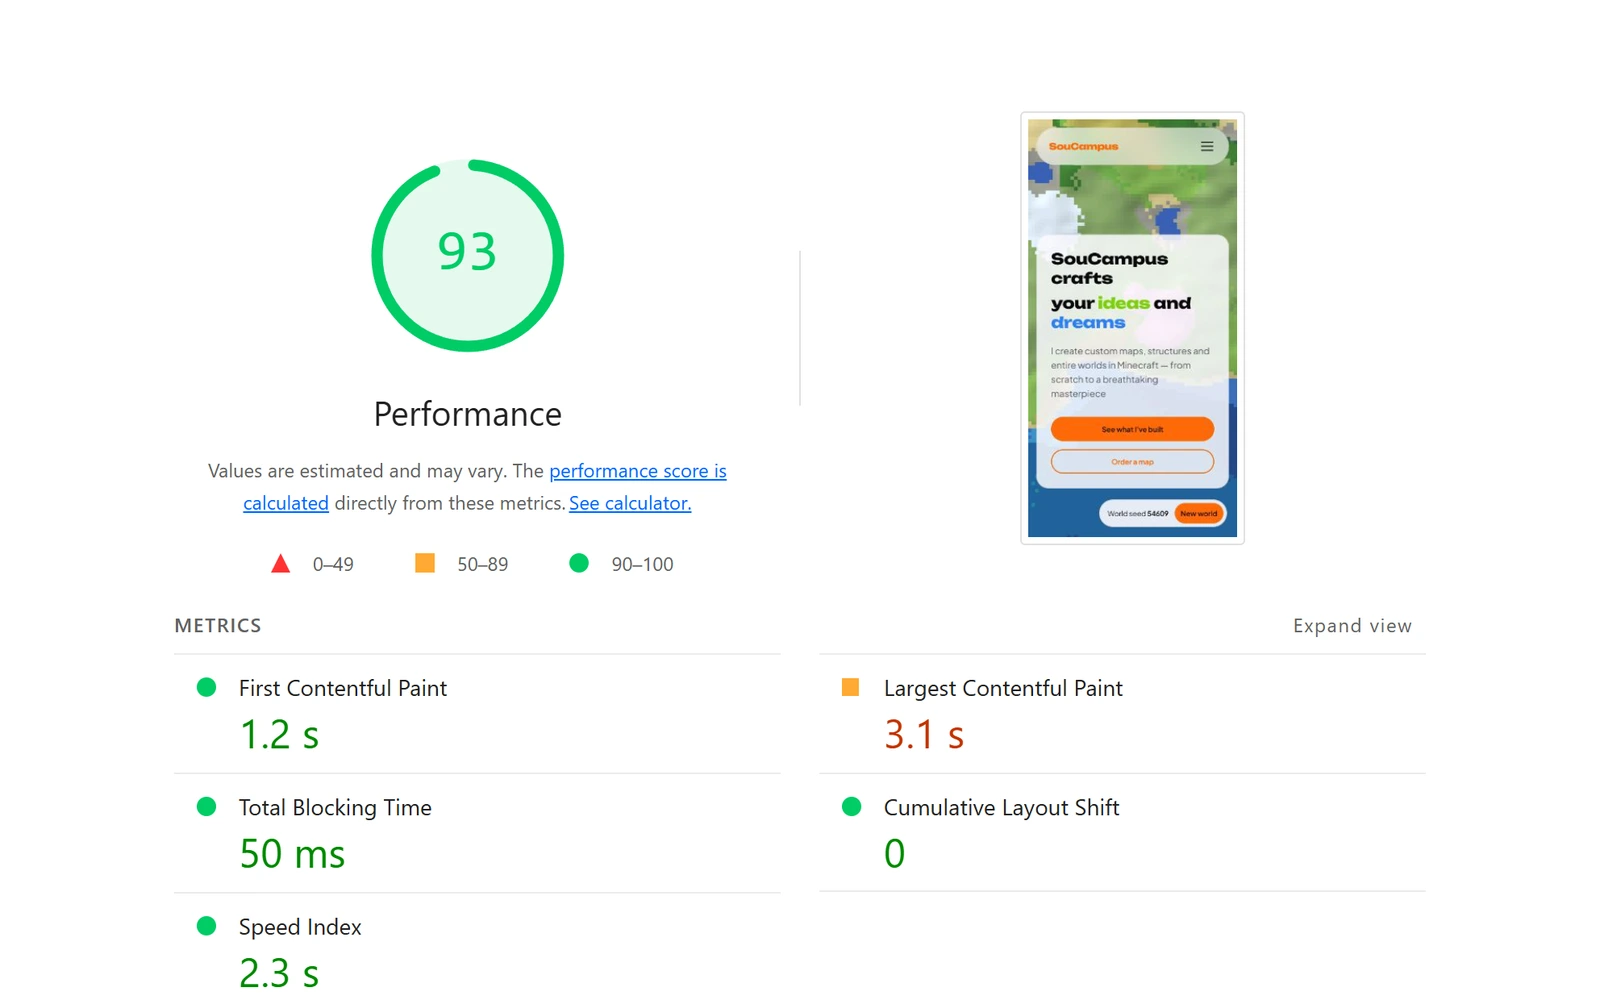
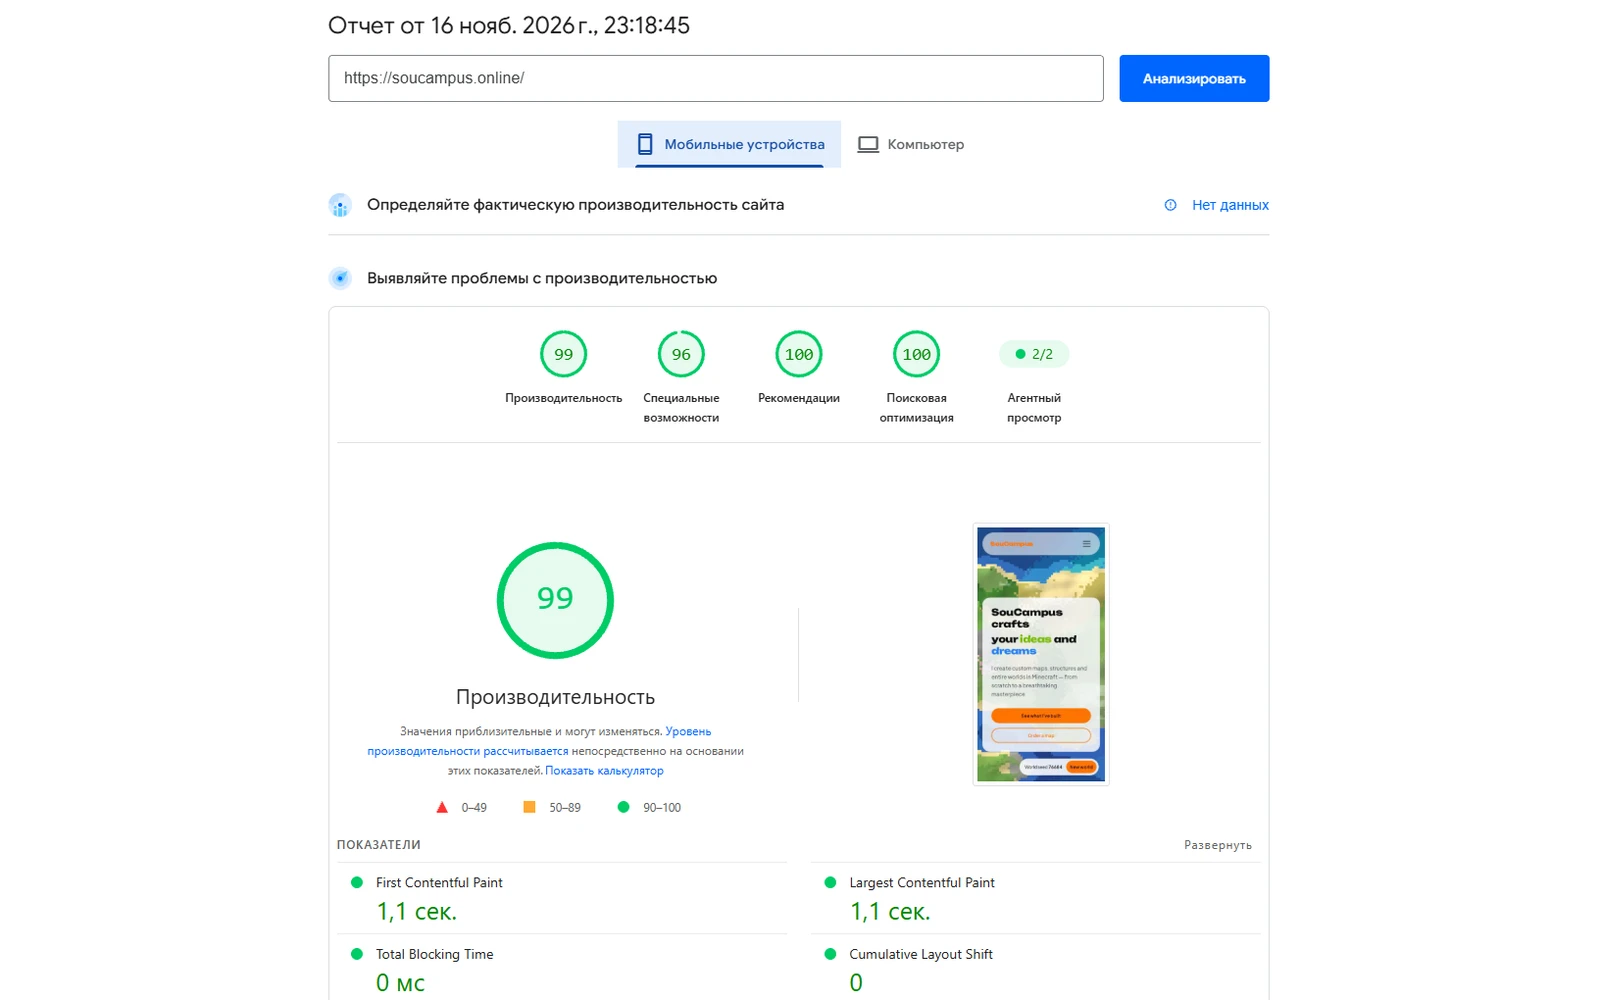
SouCampus: new PageSpeed screenshots (100 desktop / 99 mobile, 16 Nov 2026)
Claude-Session: https://claude.ai/code/session_0137zBUqUaAvaSH8HDArihrB

diff --git a/content/site.ts b/content/site.ts
@@ -216,7 +216,7 @@ export const site = {
     },
     {
       label: "Speed",
-      value: "100 / 90",
+      value: "100 / 99",
       context: "PageSpeed on SouCampus, desktop / mobile",
       href: "/soucampus",
     },
@@ -239,7 +239,7 @@ export const site = {
         ["Period", "Jun 2026 – present"],
         ["Stack", "Next.js, TypeScript, Supabase (PostgreSQL, RLS), Stripe, Vercel"],
         ["Checked", "Security audit: RLS policies, Stripe webhook signatures, file uploads"],
-        ["Speed", "PageSpeed 100 desktop / 90 mobile"],
+        ["Speed", "PageSpeed 100 desktop / 99 mobile"],
         ["Payments", "Stripe checkout is built, not switched on yet"],
         ["Result", "3 custom-order clients, 5 maps sold directly"],
       ],
@@ -445,7 +445,7 @@ export const site = {
         "Authentication and the database on Supabase (PostgreSQL), with row-level security deciding who reads each row.",
         "Stripe checkout is built; payments are not switched on yet.",
         "Ran a security audit before the relaunch: row-level security policies, Stripe webhook signatures and file uploads.",
-        "PageSpeed 100 on desktop and 90 on mobile in production.",
+        "PageSpeed 100 on desktop and 99 on mobile in production.",
         "The site has already brought 3 custom-order clients; 5 maps sold directly.",
       ],
       tech: ["TypeScript", "Next.js", "React", "Node.js", "Tailwind CSS", "Motion", "Supabase (PostgreSQL)", "Stripe", "Google Analytics", "REST APIs", "GitHub", "Vercel"],
@@ -1116,7 +1116,7 @@ export const site = {
     facts: [
       { label: "Role", value: "Founder & sole developer" },
       { label: "Timeline", value: "Jun 2026 – Present" },
-      { label: "PageSpeed", value: "100 desktop / 90 mobile" },
+      { label: "PageSpeed", value: "100 desktop / 99 mobile" },
       { label: "Status", value: "Live; payments built, not switched on yet" },
     ],
     sections: [
@@ -1151,8 +1151,8 @@ export const site = {
       {
         heading: "Performance",
         body: [
-          "Speed is part of the product: SouCampus scores 100 on Google PageSpeed on desktop and 90 on mobile.",
-          "The reports below are a separate check: Lighthouse 12.8 run from my own machine on 14 November 2026. It gave 99 on desktop and 93 on mobile. Scores move a few points between runs and tools.",
+          "Speed is part of the product: SouCampus scores 100 on Google PageSpeed on desktop and 99 on mobile.",
+          "The reports below are from PageSpeed Insights, run on 16 November 2026. Accessibility 96, best practices 100 and SEO 100 on both. Scores move a few points between runs.",
         ],
       },
       {
@@ -1167,13 +1167,13 @@ export const site = {
     lighthouse: [
       {
         src: "/projects/soucampus-lh-desktop.webp",
-        alt: "Lighthouse report for soucampus.online, desktop: performance 99, accessibility 96, best practices 100, SEO 100",
-        caption: "Desktop · Performance 99 · Accessibility 96 · Best practices 100 · SEO 100",
+        alt: "PageSpeed Insights report for soucampus.online, desktop: performance 100, accessibility 96, best practices 100, SEO 100",
+        caption: "Desktop · Performance 100 · Accessibility 96 · Best practices 100 · SEO 100",
       },
       {
         src: "/projects/soucampus-lh-mobile.webp",
-        alt: "Lighthouse report for soucampus.online, mobile: performance 93, accessibility 96, best practices 100, SEO 100",
-        caption: "Mobile · Performance 93 · Accessibility 96 · Best practices 100 · SEO 100",
+        alt: "PageSpeed Insights report for soucampus.online, mobile: performance 99, accessibility 96, best practices 100, SEO 100",
+        caption: "Mobile · Performance 99 · Accessibility 96 · Best practices 100 · SEO 100",
       },
     ],
     gallery: [

diff --git a/app/lab/data.ts b/app/lab/data.ts
@@ -12,7 +12,7 @@ export const rest = site.tagline.slice(cut + 1); // "I build with …"
 
 export const numbers = [
   { value: "24 → 2 min", label: "HR admin time per candidate", where: "Bachelor's thesis, n8n" },
-  { value: "100 / 90", label: "PageSpeed, desktop / mobile", where: "SouCampus" },
+  { value: "100 / 99", label: "PageSpeed, desktop / mobile", where: "SouCampus" },
   { value: "~200 users", label: "registered in the app", where: "CMI, App Store and Google Play" },
 ];
 
@@ -21,7 +21,7 @@ export const ledger = [
   { date: "2018", text: "First paid Minecraft build", amount: "8 years of client work" },
   { date: "Jan 2025", text: "proceedit: front end of the CMI mobile app", amount: "~200 users" },
   { date: "2026", text: "Bachelor's thesis: hiring automation in n8n", amount: "24 → 2 min" },
-  { date: "Jun 2026", text: "SouCampus: marketplace, sole engineer", amount: "100 / 90" },
+  { date: "Jun 2026", text: "SouCampus: marketplace, sole engineer", amount: "100 / 99" },
   { date: "Oct 2026", text: "Learning Java and Spring Boot", amount: "in progress" },
 ];
 
@@ -51,7 +51,7 @@ export const projects: LabProject[] = [
     host: "soucampus.online",
     kicker: "Sole engineer · Jun 2026 – present",
     line: "A marketplace and studio site for Minecraft builds. I build it alone, from the database to production.",
-    metric: { value: "100 / 90", label: "PageSpeed, desktop / mobile" },
+    metric: { value: "100 / 99", label: "PageSpeed, desktop / mobile" },
     facts: [
       "Row-level security in PostgreSQL decides who reads each row",
       "Security audit before the relaunch",

diff --git a/app/lab/heroes.tsx b/app/lab/heroes.tsx
@@ -243,7 +243,7 @@ function H7() {
             {p.media.kind === "video" && <PreviewVideo src={p.media.src} poster={p.media.poster} alt={p.media.alt} />}
           </div>
         </div>
-        <figcaption className={`${mono} mt-4 text-muted`}>SouCampus · built alone · PageSpeed 100 / 90</figcaption>
+        <figcaption className={`${mono} mt-4 text-muted`}>SouCampus · built alone · PageSpeed 100 / 99</figcaption>
       </figure>
     </div>
   );
